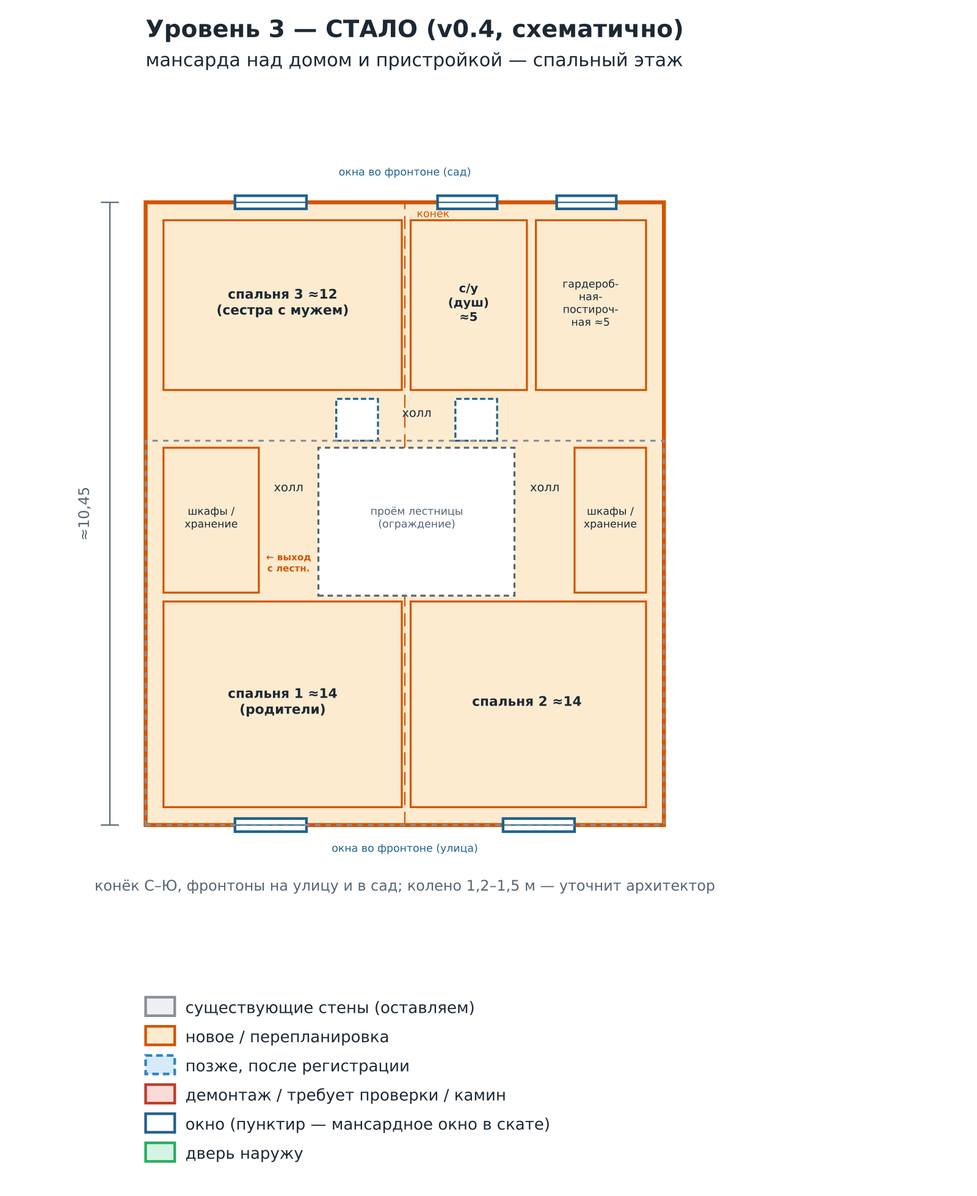
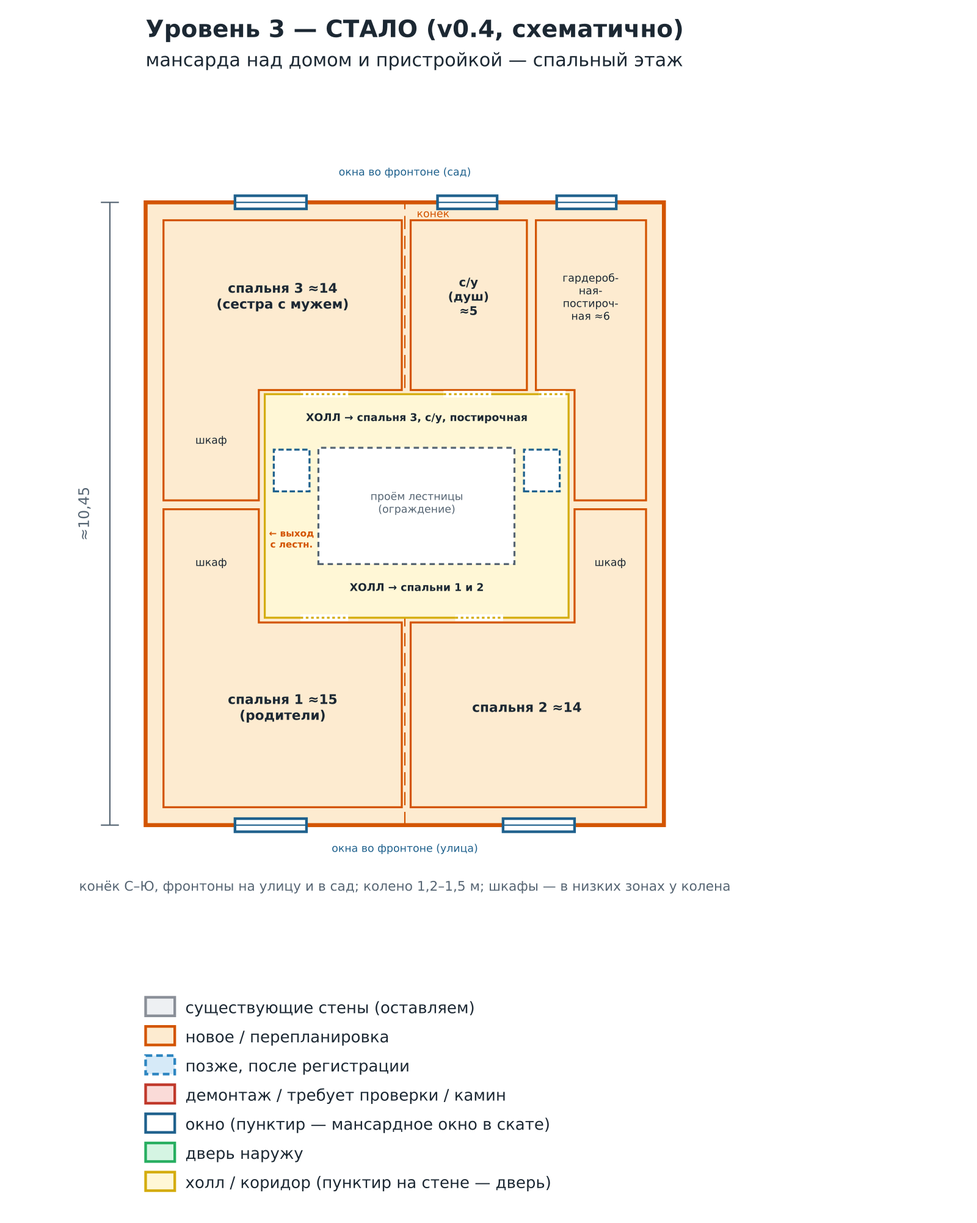
Схемы v0.4.1: коридор к бане, галерея над кухней, высокие окна, понятные проходы на ур. 3
Claude-Session: https://claude.ai/code/session_01QSSnyq9h7BMkfK5kfqTf5B

diff --git a/tools/schemes.py b/tools/schemes.py
@@ -131,6 +131,11 @@ class Svg:
             self.rect(x0 - t / 2, y0, x0 + t / 2, y1, stroke, fill, 2)
             self.line(x0, y0, x0, y1, stroke, 1)
 
+    def door(self, x0, y0, x1, y1):
+        """Дверь во внутренней стене — разрыв линии стены."""
+        self.line(x0, y0, x1, y1, "white", 5)
+        self.line(x0, y0, x1, y1, C["path"], 1.5, "2,2")
+
     def roof_win(self, x0, y0, x1, y1):
         """Мансардное окно в скате — пунктирный прямоугольник."""
         self.rect(x0, y0, x1, y1, C["win"], "white", 1.5, "4,2")
@@ -340,7 +345,7 @@ def plan_stalo(level):
     names = {1: "цоколь (пол −0,7) + пристройка 4 м в уровень земли (+1,0)",
              2: "бывший 1 этаж + второй свет над пристройкой",
              3: "мансарда над домом и пристройкой — спальный этаж"}
-    g = Svg(11.5, 11.4, 45, margin=110, title=f"Уровень {level} — СТАЛО (v0.4, схематично)\n{names[level]}", extra_h=170)
+    g = Svg(11.5, 11.4, 45, margin=110, title=f"Уровень {level} — СТАЛО (v0.4, схематично)\n{names[level]}", extra_h=190)
     ey, E = HD, EXT_D
     top = ey + E
     axes = ((0.6, 1.6), (2.3, 3.5), (5.2, 6.4), (7.1, 8.1))   # оси окон северного фасада, симметрично камину
@@ -376,9 +381,10 @@ def plan_stalo(level):
             g.line(x, ey + 0.1, x, ey + 1.05, C["new"], 1)
         g.text(3.2, ey + 1.3, "лестница ↑ ур.2 (на галерею), справа налево", 8, C["new"])
         g.rect(0.25, ey + 0.1, 1.85, ey + 1.1, C["new"], "none", 1, "3,2")
-        g.text(1.05, ey + 0.6, "под галереей\nh≈1,75: шкаф", 7, C["new"])
-        g.rect(0.25, ey + 1.5, 1.6, top - 0.25, C["new"], "none", 1.5)
-        g.text(0.92, ey + 2.6, "кухня", 10, C["new"], rotate=-90)
+        g.text(1.05, ey + 0.6, "шкаф", 7, C["new"])
+        g.rect(0.25, ey + 1.3, 1.6, top - 0.25, C["new"], "none", 1.5)
+        g.text(0.92, ey + 2.6, "кухня под галереей", 9, C["new"], rotate=-90)
+        g.rect(0, ey, 1.8, top, C["new"], "none", 1, "2,4")
         g.ellipse(3.1, ey + 2.65, 1.0, 1.0, C["path"], C["path_fill"], 1.5)
         g.text(3.1, ey + 2.65, "обеденная\nзона", 9)
         g.ellipse(6.3, ey + 2.5, 1.3, 1.0, C["path"], C["path_fill"], 1.5)
@@ -390,7 +396,7 @@ def plan_stalo(level):
         g.win(axes[2][0], top, axes[2][1], top, "door")
         g.win(*(axes[3][0], top, axes[3][1], top))
         g.win(0, ey + 2.1, 0, ey + 3.3)
-        g.text(HW / 2, top + 0.55, "выход в сад: двери по бокам камина", 9, C["green"])
+        g.text(HW / 2, top + 0.55, "высокие окна на всю высоту второго света, один ряд; два из них — двери в сад", 9, C["win"])
         # тамбур
         ty0, ty1 = ey + TAMBUR_Y[0], ey + TAMBUR_Y[1]
         g.rect(HW, ty0, HW + 2.0, ty1, C["later"], C["later_fill"], 2, "5,3")
@@ -400,46 +406,58 @@ def plan_stalo(level):
         g.text(HW / 2, -1.1, "цоколь: пол −0,7 → чистовая 2,5–2,6; окна цоколя — с приямками", 11, C["demo"])
         g.dim(0, ey, 0, top, "4,00", off=0.6)
     elif level == 2:
+        CORR = "#fff7d6"
         g.rect(0, ey, HW, top, C["new"], "#fef5e7", 3, "8,4")
-        g.rect(0.0, ey, 1.9, ey + 1.2, C["new"], C["new_fill"], 2)
-        g.text(0.95, ey + 0.6, "галерея\n±0 ур.2", 8, C["new"], bold=True)
-        g.text(3.2, ey + 0.6, "← лестница с ур.1", 8, C["new"])
-        g.text(5.0, ey + 2.5, "ВТОРОЙ СВЕТ\n(≈5 м от пола кухни)", 12, C["new"], bold=True)
+        # галерея вдоль западной стены, над кухней
+        g.rect(0.0, ey, 1.8, top, C["new"], C["new_fill"], 2)
+        g.text(0.9, ey + 2.3, "ГАЛЕРЕЯ\nнад кухней\n\nотметка —\nрешить:\n±0 / +0,5\n/ +0,7", 8, C["new"], bold=True)
+        g.text(3.3, ey + 0.55, "← лестница с ур.1", 8, C["new"])
+        g.text(5.2, ey + 2.0, "ВТОРОЙ СВЕТ\n(≈5 м от пола кухни)", 12, C["new"], bold=True)
         g.rect(3.95, top - 0.7, 4.75, top - 0.1, C["demo"], "#fadbd8", 1.5)
         g.text(4.35, top - 1.0, "дымоход", 8, C["demo"])
         for a0, a1 in axes:
             g.win(a0, top, a1, top)
-        g.text(HW / 2, top + 0.55, "окна второго света — на тех же осях, что внизу", 9, C["win"])
+        g.text(HW / 2, top + 0.55, "те же высокие окна, что на ур.1: один ряд на всю высоту", 9, C["win"])
         # бывшие северные окна
-        g.line(1.0, HD, 1.9, HD, "white", 6)
-        g.line(1.0, HD, 1.9, HD, C["new"], 2, "3,3")
+        g.line(0.9, HD, 1.8, HD, "white", 6)
+        g.line(0.9, HD, 1.8, HD, C["new"], 2, "3,3")
         g.win(4.75, HD, 5.85, HD)
-        # холл, кабинет, лестница
-        g.rect(0.38, 3.9, 2.85, 6.33, C["new"], "none", 2)
-        g.text(1.6, 4.6, "ХОЛЛ", 10, bold=True)
-        g.text(1.45, 5.95, "проём на галерею\n(бывшее окно)", 7, C["new"])
-        g.rect(0.38, 0.38, 6.19, 3.8, C["new"], "none", 2)
-        g.text(3.3, 2.2, "КАБИНЕТ / гостевая\n≈19,5 м²", 11, bold=True)
-        g.text(3.3, 1.2, "перегородку к бывшей кухне убрать — проверить, не несущая ли", 7, C["demo"])
-        g.rect(2.9, 3.85, 6.19, 6.33, C["new"], "none", 2)
+        # холл + коридор к бане
+        g.rect(0.38, 3.45, 2.85, 6.33, C["new"], CORR, 2)
+        g.rect(2.85, 3.45, 6.79, 4.33, C["new"], CORR, 2)
+        g.text(1.6, 5.0, "ХОЛЛ", 10, bold=True)
+        g.text(1.45, 6.0, "проём на галерею", 7, C["new"])
+        g.text(4.8, 3.9, "коридор → баня, душ", 8, bold=True)
+        # кабинет
+        g.rect(0.38, 0.38, 6.19, 3.4, C["new"], "none", 2)
+        g.text(3.3, 2.0, "КАБИНЕТ / гостевая\n≈17,5 м²", 11, bold=True)
+        g.text(3.3, 0.95, "перегородку к бывшей кухне убрать — проверить, не несущая ли", 7, C["demo"])
+        g.door(1.0, 3.4, 1.9, 3.4)
+        # лестница П-образная, марши по 0,9
+        g.rect(2.9, 4.38, 6.19, 6.33, C["new"], "none", 2)
         for i in range(9):
-            g.line(2.9 + i * 0.25, 5.35, 2.9 + i * 0.25, 6.28, C["new"], 1)
-            g.line(5.15 - i * 0.25, 3.9, 5.15 - i * 0.25, 4.85, C["new"], 1)
-        g.text(4.55, 5.1, "П-лестница ↑ ур.3, вход слева → направо", 7, C["new"], bold=True)
-        # бывшая веранда: душ, предбанник, парная в новом углу
-        g.rect(6.79, 3.6, 8.58, 6.31, C["new"], "none", 2)
-        g.text(7.68, 4.95, "душ + WC", 10, C["new"], bold=True)
-        g.rect(6.79, 2.0, 8.58, 3.5, C["new"], "none", 2)
-        g.text(7.68, 2.75, "предбанник", 9, C["new"])
+            g.line(2.9 + i * 0.25, 5.43, 2.9 + i * 0.25, 6.28, C["new"], 1)
+            g.line(5.15 - i * 0.25, 4.43, 5.15 - i * 0.25, 5.28, C["new"], 1)
+        g.text(4.0, 5.36, "П-лестница ↑ ур.3", 7, C["new"], bold=True)
+        g.door(2.88, 5.45, 2.88, 6.28)
+        g.text(2.6, 5.85, "→", 9, C["new"], bold=True)
+        # баня: предбанник в центре, из него душ+WC и парная
+        g.rect(6.79, 4.45, 8.58, 6.31, C["new"], "none", 2)
+        g.text(7.68, 5.4, "душ + WC", 10, C["new"], bold=True)
+        g.rect(6.79, 2.0, 8.58, 4.4, C["new"], "none", 2)
+        g.text(7.68, 3.0, "предбанник", 9, C["new"])
         g.rect(6.79, 0.12, 8.58, 1.9, C["new"], "none", 2)
-        g.text(7.68, 1.5, "ПАРНАЯ\n≈3,2 м²", 9, C["new"], bold=True)
+        g.text(7.68, 1.45, "ПАРНАЯ\n≈3,2 м²", 9, C["new"], bold=True)
+        g.door(6.79, 3.55, 6.79, 4.25)
+        g.door(7.3, 4.42, 8.0, 4.42)
+        g.door(7.3, 1.95, 8.0, 1.95)
         # окна
         g.win(1.13, 0, 2.26, 0)
         g.win(4.51, 0, 5.54, 0)
         g.win(7.3, 0, 8.1, 0)
         g.win(0, 4.4, 0, 5.5)
         g.text(-0.35, 4.95, "окно сдвинуть в холл", 7, C["demo"], rotate=-90)
-        g.win(HW, 3.7, HW, 4.3)
+        g.win(HW, 5.1, HW, 5.7)
         g.text(1.7, -0.45, "кабинет", 8, C["win"])
         g.text(7.7, -0.45, "окно парной", 8, C["win"])
         g.rect(HW, -0.2, HW + 2.0, top, C["green"], "none", 2, "6,4")
@@ -449,42 +467,43 @@ def plan_stalo(level):
         g.rect(0, 0, HW, top, C["new"], C["new_fill"], 3)
         g.line(HW / 2, 0, HW / 2, top, C["new"], 1, "10,5")
         g.text(HW / 2 + 0.2, top - 0.25, "конёк", 8, C["new"], anchor="start")
-        # проём лестницы (над ур.2: x 2,9–6,19)
-        g.rect(2.9, 3.85, 6.19, 6.33, C["dim"], "white", 1.5, "4,3")
-        g.text(4.55, 5.1, "проём лестницы\n(ограждение)", 8, C["dim"])
-        g.text(2.4, 4.35, "← выход\nс лестн.", 7, C["new"], bold=True)
-        # холл-кольцо вокруг проёма
-        g.text(2.4, 5.6, "холл", 9)
-        g.text(4.55, 6.85, "холл", 9)
-        g.text(6.7, 5.6, "холл", 9)
-        # юг: две спальни (фронтон на улицу)
-        g.rect(0.3, 0.3, 4.3, 3.75, C["new"], "none", 1.5)
-        g.text(2.3, 2.0, "спальня 1 ≈14\n(родители)", 10, bold=True)
-        g.rect(4.45, 0.3, 8.4, 3.75, C["new"], "none", 1.5)
-        g.text(6.4, 2.0, "спальня 2 ≈14", 10, bold=True)
-        # середина: хранение по краям (низкие зоны у колена)
-        g.rect(0.3, 3.9, 1.9, 6.33, C["new"], "none", 1.5)
-        g.text(1.1, 5.1, "шкафы /\nхранение", 8)
-        g.rect(7.2, 3.9, 8.4, 6.33, C["new"], "none", 1.5)
-        g.text(7.8, 5.1, "шкафы /\nхранение", 8)
-        # север: спальня 3, с/у, гардеробная-постирочная (фронтон в сад)
-        g.rect(0.3, 7.3, 4.3, top - 0.3, C["new"], "none", 1.5)
-        g.text(2.3, 8.7, "спальня 3 ≈12\n(сестра с мужем)", 10, bold=True)
+        # холл-кольцо вокруг проёма (выделен цветом)
+        g.rect(2.0, 3.48, 7.1, 7.23, C["path"], "#fff7d6", 1.5)
+        g.rect(2.9, 4.38, 6.19, 6.33, C["dim"], "white", 1.5, "4,3")
+        g.text(4.55, 5.35, "проём лестницы\n(ограждение)", 8, C["dim"])
+        g.text(2.45, 4.75, "← выход\nс лестн.", 7, C["new"], bold=True)
+        g.text(4.55, 3.93, "ХОЛЛ → спальни 1 и 2", 8, bold=True)
+        g.text(4.55, 6.78, "ХОЛЛ → спальня 3, с/у, постирочная", 8, bold=True)
+        # юг
+        g.poly([(0.3, 0.3), (4.3, 0.3), (4.3, 3.4), (1.9, 3.4), (1.9, 5.3), (0.3, 5.3)], C["new"], "none", 1.5)
+        g.text(2.3, 1.9, "спальня 1 ≈15\n(родители)", 10, bold=True)
+        g.text(1.1, 4.35, "шкаф", 8)
+        g.poly([(4.45, 0.3), (8.4, 0.3), (8.4, 5.3), (7.2, 5.3), (7.2, 3.4), (4.45, 3.4)], C["new"], "none", 1.5)
+        g.text(6.4, 1.9, "спальня 2 ≈14", 10, bold=True)
+        g.text(7.8, 4.35, "шкаф", 8)
+        g.door(2.6, 3.48, 3.4, 3.48)
+        g.door(5.2, 3.48, 6.0, 3.48)
+        # север
+        g.poly([(0.3, 5.45), (1.9, 5.45), (1.9, 7.3), (4.3, 7.3), (4.3, top - 0.3), (0.3, top - 0.3)], C["new"], "none", 1.5)
+        g.text(2.3, 8.8, "спальня 3 ≈14\n(сестра с мужем)", 10, bold=True)
+        g.text(1.1, 6.4, "шкаф", 8)
         g.rect(4.45, 7.3, 6.4, top - 0.3, C["new"], "none", 1.5)
-        g.text(5.42, 8.7, "с/у\n(душ)\n≈5", 9, bold=True)
-        g.rect(6.55, 7.3, 8.4, top - 0.3, C["new"], "none", 1.5)
-        g.text(7.47, 8.7, "гардероб-\nная-\nпостироч-\nная ≈5", 8)
-        # окна: фронтонные на юг и север, мансардные в скатах
+        g.text(5.42, 8.8, "с/у\n(душ)\n≈5", 9, bold=True)
+        g.poly([(6.55, 7.3), (7.2, 7.3), (7.2, 5.45), (8.4, 5.45), (8.4, top - 0.3), (6.55, top - 0.3)], C["new"], "none", 1.5)
+        g.text(7.47, 8.8, "гардероб-\nная-\nпостироч-\nная ≈6", 8)
+        g.door(2.6, 7.23, 3.4, 7.23)
+        g.door(5.0, 7.23, 5.8, 7.23)
+        g.door(6.6, 7.23, 7.05, 7.23)
+        # окна: фронтонные на юг и север, мансардные в скатах над холлом
         for wx0, wx1 in ((1.5, 2.7), (6.0, 7.2)):
             g.win(wx0, 0, wx1, 0)
         for wx0, wx1 in ((1.5, 2.7), (4.9, 5.9), (6.9, 7.9)):
             g.win(wx0, top, wx1, top)
-        g.roof_win(3.2, 6.45, 3.9, 7.15)
-        g.roof_win(5.2, 6.45, 5.9, 7.15)
+        g.roof_win(2.15, 5.6, 2.75, 6.3)
+        g.roof_win(6.35, 5.6, 6.95, 6.3)
         g.text(HW / 2, -0.45, "окна во фронтоне (улица)", 8, C["win"])
         g.text(HW / 2, top + 0.45, "окна во фронтоне (сад)", 8, C["win"])
-        g.poly([(0, 0), (HW, 0), (HW, HD), (0, HD)], C["exist"], "none", 1.5, "4,4")
-        g.text(HW / 2, -1.1, "конёк С–Ю, фронтоны на улицу и в сад; колено 1,2–1,5 м — уточнит архитектор", 11, C["dim"])
+        g.text(HW / 2, -1.1, "конёк С–Ю, фронтоны на улицу и в сад; колено 1,2–1,5 м; шкафы — в низких зонах у колена", 10, C["dim"])
         g.dim(0, 0, 0, top, "≈10,45", off=0.6)
     g.legend([
         (C["exist"], C["exist_fill"], None, "существующие стены (оставляем)"),
@@ -493,6 +512,7 @@ def plan_stalo(level):
         (C["demo"], "#fadbd8", None, "демонтаж / требует проверки / камин"),
         (C["win"], "white", None, "окно (пунктир — мансардное окно в скате)"),
         (C["green"], C["green_fill"], None, "дверь наружу"),
+        (C["path"], "#fff7d6", None, "холл / коридор (пунктир на стене — дверь)"),
     ], top=g.h - g.extra_h + 20)
     g.save(f"etazh-{level}-stalo.svg")
 
@@ -572,8 +592,10 @@ def razrez_v03(variant):
     else:
         g.rect(hx1, gl, ex1, L3, C["new"], C["new_fill"], 2)
         g.text((hx1 + ex1) / 2 + 0.5, 3.8, "второй свет\n≈5 м", 9, C["new"], bold=True)
-        g.rect(hx1, L2 - 0.25, hx1 + 1.2, L2, C["new"], C["new"], 1)
-        g.text(hx1 + 0.6, L2 - 0.75, "галерея ±0 ур.2,\nпод ней ≈1,75", 7, C["new"])
+        g.rect(hx1, L2 - 0.25, ex1 - 0.3, L2, C["new"], "none", 1, "3,2")
+        g.text((hx1 + ex1) / 2, L2 - 0.75, "галерея над кухней, под ней:\n±0 → 1,75 · +0,5 → 2,25 · +0,7 → 2,45", 7, C["new"])
+        g.rect(ex1 - 0.08, gl + 0.1, ex1 + 0.08, L3 - 0.4, C["win"], "white", 2)
+        g.text(ex1 + 0.3, (gl + L3) / 2, "высокое окно\nна всю высоту", 8, C["win"], anchor="start")
         g.rect(hx0, L3, ex1, L3 + 4.0, C["new"], C["new_fill"], 2)
         g.line(hx0, L3 + 1.5, ex1, L3 + 1.5, C["new"], 1, "4,3")
         g.text((hx0 + ex1) / 2, L3 + 2.6, "Ур.3: 3 спальни + с/у + гардеробная-постирочная\nфронтоны: юг (улица) и север (сад), конёк ≈+10,1", 9, C["new"], bold=True)

diff --git a/docs/04-tz-arhitektoru.md b/docs/04-tz-arhitektoru.md
@@ -78,25 +78,26 @@
 ### Уровень 2
 | Помещение | Площадь, м² | Требования |
 |---|---|---|
-| Холл | ≈ 6 | северо-западная часть дома; из холла — проём на галерею (на месте бывшего окна) и вход на лестницу. Западное окно сдвинуть в холл |
-| Кабинет = гостевая спальня | ≈ 19,5 | полноценная жилая комната, **вытянута вдоль южной стены** (бывшие комната 1 и кухня), два южных окна. Перегородку убрать — проверить, не несущая ли |
-| Лестница на уровень 3 | — | П-образная, вход из холла, **первый марш слева направо** (запад → восток), выход на ур. 3 у холла. Без забежных ступеней |
-| Душ + WC | 4–5 | северная часть бывшей веранды |
-| Предбанник | ≈ 2,5 | середина бывшей веранды |
+| Холл | ≈ 7 | северо-западная часть дома; из холла — проём на галерею (на месте бывшего окна) и вход на лестницу. Западное окно сдвинуть в холл |
+| Коридор к бане | ≈ 3,5 | из холла на восток, между кабинетом и лестницей, ширина ≈ 0,9. В душ и парную — **не через кабинет** |
+| Кабинет = гостевая спальня | ≈ 17,5 | полноценная жилая комната, **вытянута вдоль южной стены** (бывшие комната 1 и кухня), два южных окна, вход из холла. Перегородку убрать — проверить, не несущая ли |
+| Лестница на уровень 3 | — | П-образная, марши ≈ 0,9 м, вход из холла, **первый марш слева направо** (запад → восток), выход на ур. 3 к холлу. Без забежных ступеней |
+| Предбанник | ≈ 4 | середина бывшей веранды, вход из коридора; из предбанника — двери в душ и в парную |
+| Душ + WC | ≈ 3,5 | северная часть бывшей веранды, окно на восток |
 | **Парная с окном** | ≈ 3–4 | в пристроенном юго-восточном углу; электрокаменка или иная — предложить с учётом 15 кВт |
-| Галерея над кухней | ≈ 2–3 | **в уровень пола ур. 2** (решение владельца), площадка у стены дома, куда приходит лестница с ур. 1. Под ней ≈ 1,75 м — там не кухня, а лестница / шкаф |
-| Второй свет | — | ≈ 5 м от пола кухни; окна второго света — на тех же осях, что окна и двери ур. 1 |
+| Галерея-библиотека над кухней | ≈ 7 (1,8 × 4) | **вдоль западной стены пристройки на всю глубину, является потолком кухни**. Лестница с ур. 1 приходит к её южному концу. **Отметку выбрать** (перекрытие ≈ 0,25): ±0 от пола ур. 2 → под ней 1,75 м (для кухни мало); +0,5 (3 ступени из холла) → под ней 2,25, над ней 2,35; +0,7 (4 ступени) → под ней 2,45, над ней 2,15 |
+| Второй свет | — | ≈ 5 м от пола кухни. **Окна высокие, одним рядом** на всю высоту второго света (≈ 4,5 м), 4 оси симметрично камину; два из них — с дверями в сад внизу |
 | Бывшее окно на север (у лестницы) | — | остекление во второй свет |
 
 ### Уровень 3 (мансарда над домом и пристройкой, ≈ 8,7 × 10,45)
 | Помещение | Площадь, м² | Требования |
 |---|---|---|
-| Холл вокруг лестничного проёма | — | выход с лестницы у западной стороны проёма; мансардные окна над холлом |
+| Холл-кольцо вокруг лестничного проёма | ≈ 12 | выход с лестницы на западную сторону кольца; южная часть кольца ведёт к спальням 1 и 2, северная — к спальне 3, с/у, постирочной. Мансардные окна над холлом |
 | Спальня 1 (родители) и спальня 2 | ≈ 14–15 каждая | на юге, окна во фронтоне на улицу |
 | Спальня 3 | ≈ 12–15 | на севере, окно во фронтоне в сад |
 | Санузел | ≈ 5 | один, с душем, на севере у конька; второй — опция |
 | Гардеробная-постирочная | ≈ 5 | стиральная и сушильная машины, сушка белья, хранение |
-| Шкафы / хранение | ≈ 4 × 2 | в низких зонах у колена по бокам холла |
+| Шкафы | — | в низких зонах у колена, ниши при спальнях |
 | Кровля, высота колена, окна | — | конёк вдоль дома (С–Ю), фронтоны на улицу и в сад. Колено 1,2–1,5 м — предложить оптимум; окна во фронтонах + мансардные в скатах |
 
 ### Тамбур-прихожая (главный вход)

diff --git a/docs/02-opisanie-proekta.md b/docs/02-opisanie-proekta.md
@@ -57,14 +57,15 @@
 
 | Помещение | Ориентир, м² | Комментарий |
 |---|---|---|
-| Холл | ≈ 6 | северо-запад; проём на галерею на месте бывшего окна |
-| Кабинет = гостевая спальня | ≈ 19,5 | вытянут вдоль южной стены (бывшие комната 1 и кухня), печь сносим |
+| Холл | ≈ 7 | северо-запад; проём на галерею на месте бывшего окна |
+| Коридор к бане | ≈ 3,5 | между кабинетом и лестницей, в душ и парную — не через кабинет |
+| Кабинет = гостевая спальня | ≈ 17,5 | вытянут вдоль южной стены (бывшие комната 1 и кухня), печь сносим |
 | Лестница на уровень 3 | — | П-образная, первый марш слева направо |
-| Душ + туалет | ≈ 4–5 | север бывшей веранды |
-| Предбанник | ≈ 2,5 | середина бывшей веранды |
+| Предбанник | ≈ 4 | середина бывшей веранды, вход из коридора |
+| Душ + туалет | ≈ 3,5 | север бывшей веранды, вход из предбанника |
 | Парная с окном | ≈ 3–4 | в пристроенном углу |
-| Галерея | ≈ 2–3 | в уровень пола ур. 2, площадка над лестницей с ур. 1; под ней ≈ 1,75 м |
-| Второй свет над пристройкой | — | ≈ 5 м от пола кухни |
+| Галерея-библиотека | ≈ 7 | вдоль западной стены пристройки, потолок кухни; отметка — решить (±0 / +0,5 / +0,7, см. ТЗ) |
+| Второй свет над пристройкой | — | ≈ 5 м от пола кухни, высокие окна одним рядом |
 
 ### Уровень 3 — мансарда, спальный этаж
 
@@ -77,7 +78,7 @@
 | Спальня сестры с мужем | ≈ 12–15 | север, окно в сад |
 | Санузел | ≈ 5 | один с душем, север; второй — опция |
 | Гардеробная-постирочная | ≈ 5 | север |
-| Холл вокруг лестницы, шкафы у колена | — | мансардные окна в скатах |
+| Холл-кольцо вокруг лестницы | ≈ 12 | юг — к спальням 1–2, север — к спальне 3, с/у, постирочной; мансардные окна |
 
 ### Участок
 

diff --git a/docs/decisions.md b/docs/decisions.md
@@ -32,6 +32,7 @@
 | 2026-11-18 | Мастерская в цоколе — одна комната (бывшие пом. 6 и 7) | владелец | закрыт вопрос про комнату 7 |
 | 2026-11-18 | Ур. 2: холл на северо-западе, кабинет вытянут вдоль южной стены, лестница на ур. 3 — первый марш слева направо | владелец | |
 | 2026-11-18 | Ур. 2: душ + WC в северной части веранды, парная с окном — в пристроенном углу | владелец | |
-| 2026-11-18 | Галерея — в уровень пола ур. 2 | владелец | под ней ≈ 1,75 м — только лестница / шкаф |
+| 2026-11-18 | Галерея вытянута вдоль западной стены пристройки, над кухней (потолок кухни) | владелец | отметку выбрать — см. open-questions 3а |
 | 2026-11-18 | Наружная высота цоколя ≈ 2,0 м (замер), а не 2,30 | владелец | проверить обмерами |
 | 2026-11-18 | Через архитектора первым делом понять стоимость и целесообразность: реконструкция или снос и новый дом | владелец | этап I договора, ТЗ v0.3 |
+| 2026-11-18 | Окна второго света — высокие, одним рядом, не в несколько рядов | владелец | |

diff --git a/docs/open-questions.md b/docs/open-questions.md
@@ -8,7 +8,8 @@
 1. **Меню удешевления** ([03](03-etapy-i-byudzhet.md)): принять «минимальный набор ✅»? Что ещё из ➕?
 2. **Где взять ≈ 3,5–4,5 млн** сверх бюджета или что сдвинуть на 2029?
 3. ~~Тамбур~~ — снаружи (решено).
-3а. ~~Галерея~~ — в уровень пола ур. 2 (решено 18.11).
+3а. **Отметка галереи над кухней** (перекрытие ≈ 0,25): ±0 → под ней 1,75 м (кухня не встаёт) · +0,5 → под 2,25 / над 2,35 · +0,7 → под 2,45 / над 2,15. Рекомендую +0,5…+0,7.
+3в'. **Вход в душ и парную на ур. 2:** на схеме — коридор между кабинетом и лестницей (кабинет ≈ 17,5). Альтернативы: через кабинет (гостевой санузел, кабинет 19,5) или дополнительно дверь наружу под навес.
 3б. **Выход под навес с ур. 2:** на схеме v0.4 убран (в углу теперь парная). Нужен ли где-то ещё?
 3в. **Продажа:** позвать 2 риелторов на оценку? Какая была цена покупки по ДКП 2024 — для расчёта налога?
 4. ~~Комната 7~~ — часть мастерской, одна комната (решено 18.11).
